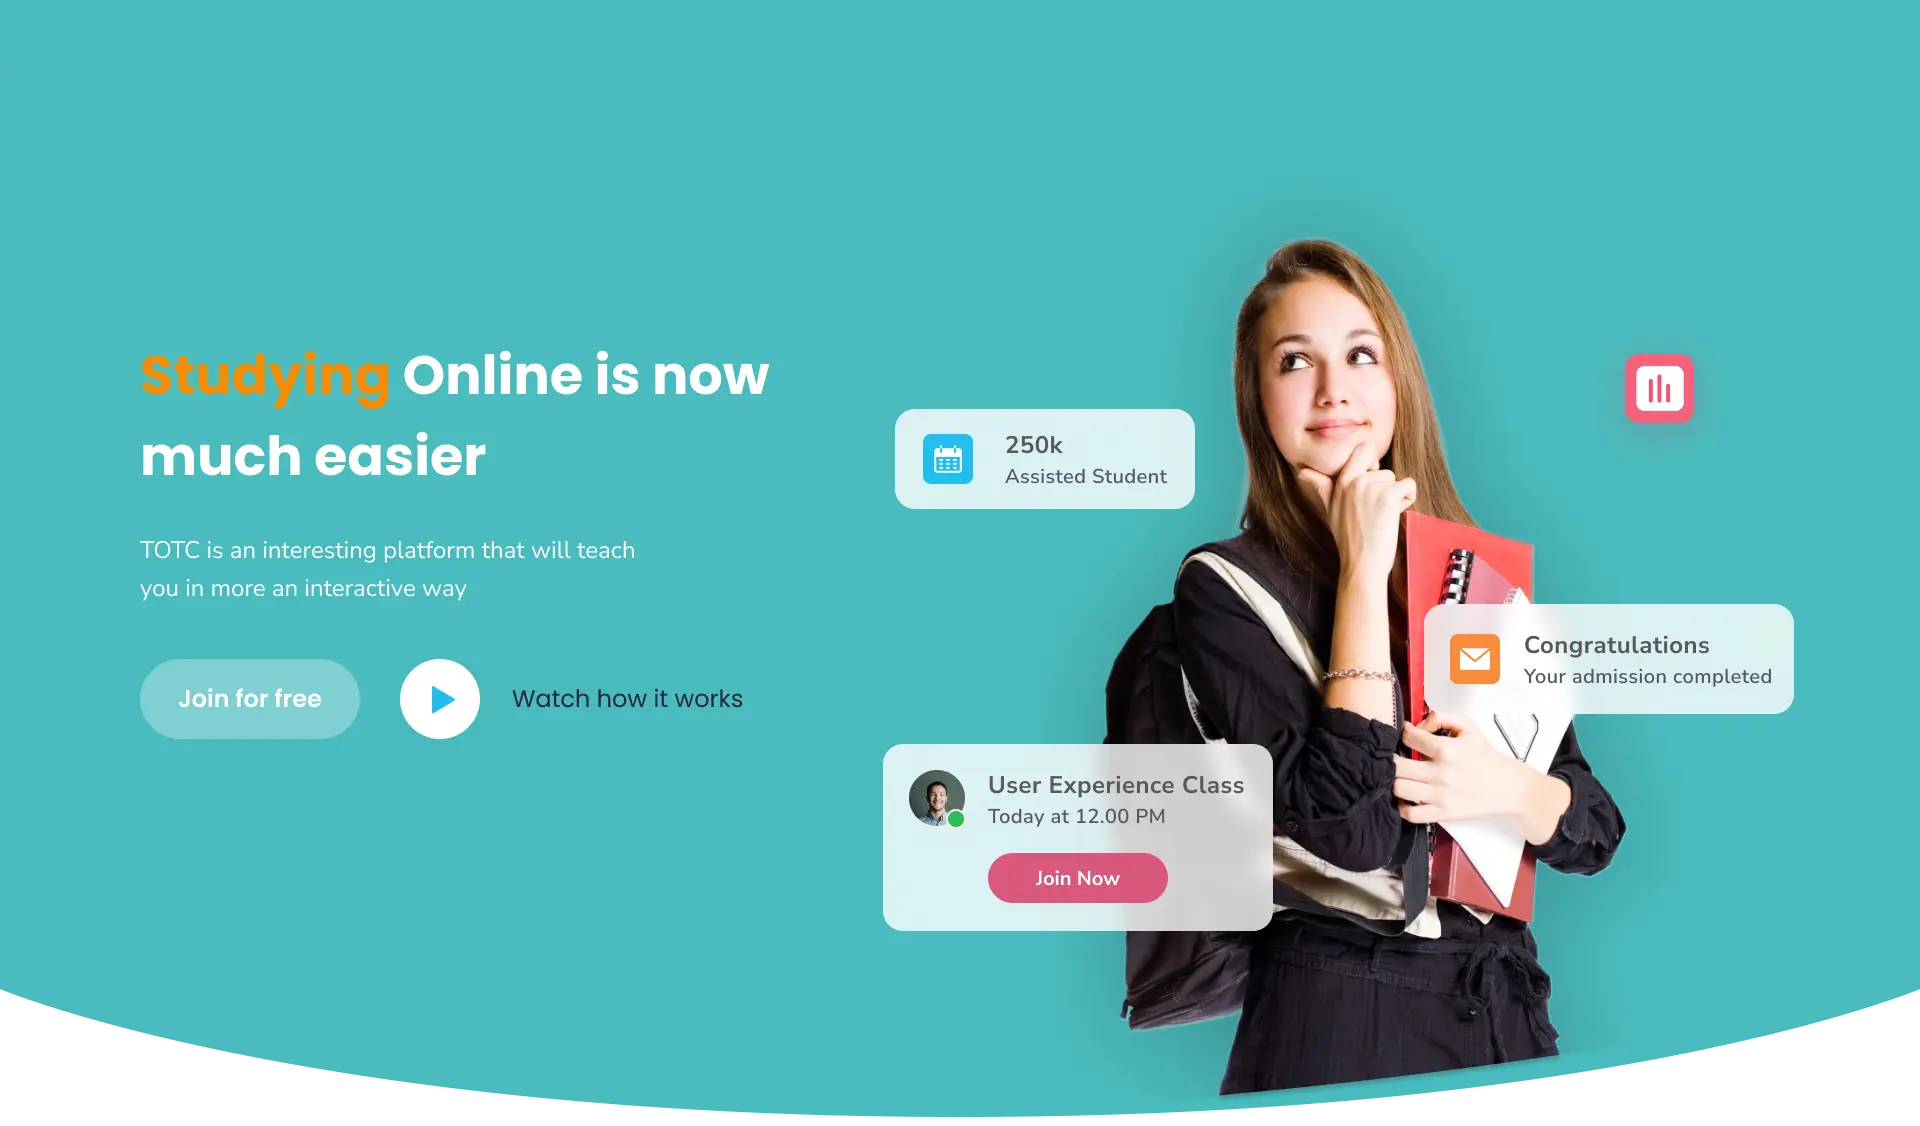
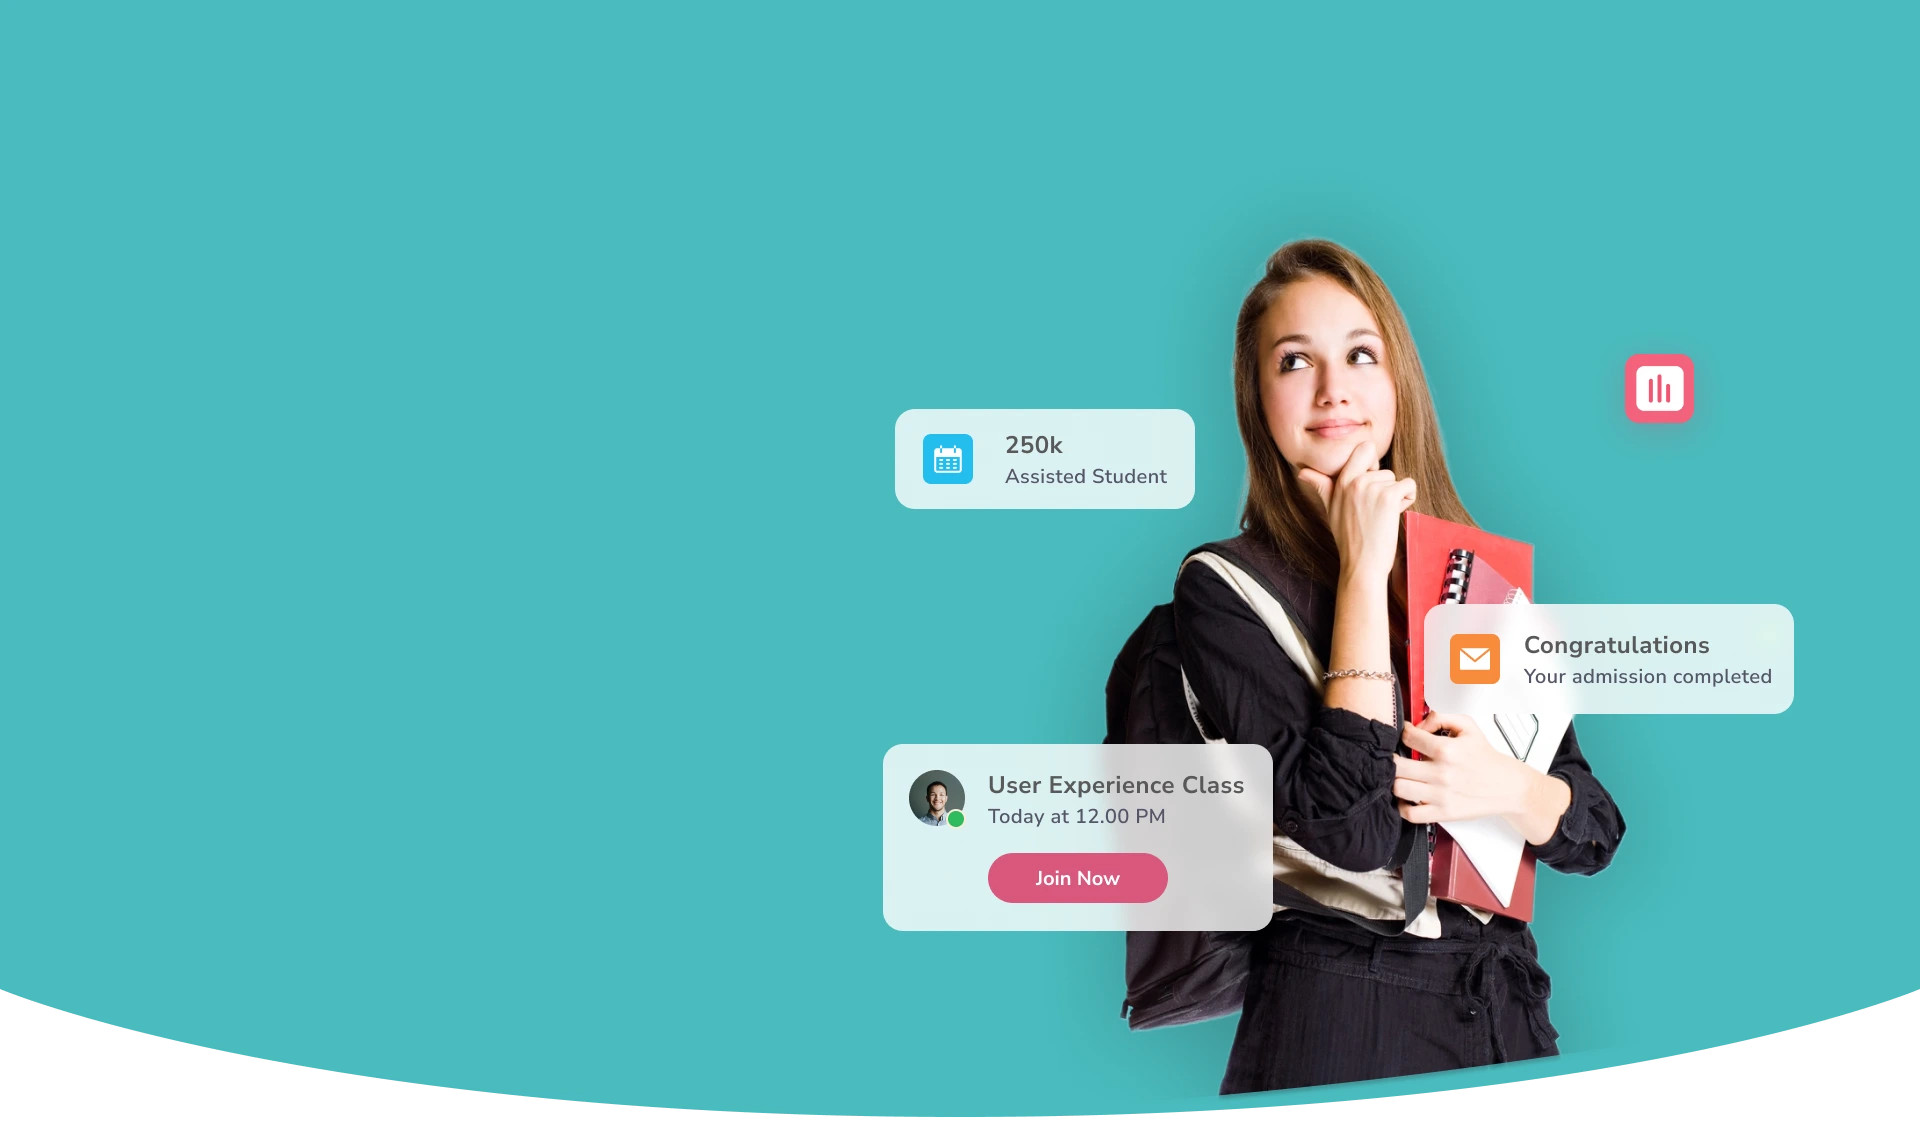
succeess section

diff --git a/index.html b/index.html
@@ -18,7 +18,7 @@
 
 </head>
 
-<body>
+<bo''dy>
 
   <!-- Navbar -->
   <nav class="navbar navbar-expand-lg position-fixed w-100">
@@ -68,14 +68,62 @@
   </nav>
 
   <main>
- 
-<section class="hero">
- <div class="vh-100"> <!-- it's not work-->
-    <img src="./img/index-landing/Header.webp" alt="hero section image" />
-    <button></button>
-</div>
 
-</section>
+    <section class="hero">
+      <div class="vh-100 ">
+        <h2><span>Studying</span>Online is now much easier</h2>
+        <p>TOTC is an interesting platform that will teach you in more an interactive way</p>
+        <a class="btn btn-link bg-light a-style">Join for free</a>
+        <a href="#"><img src="" alt="watch ancher"></a>
+        <a class="a-style" href="#">Watch how it works</a>
+      </div>
+
+    </section>
+
+
+    <section class="Success">
+      <div class="container">
+        <h2>Our Success</h2>
+        <p>Ornare id fames interdum porttitor nulla turpis etiam. Diam vitae sollicitudin at nec nam et pharetra
+          gravida.
+          Adipiscing a quis ultrices eu ornare tristique vel nisl orci. </p>
+        <div class="details">
+          <div class="row gap-5">
+            <div class="col-2">
+              <img src="./img/index-landing/15K+.webp" alt="1st of success div">
+              <h3>Students</h3>
+            </div>
+
+            <div class="col-2">
+              <img src="./img/index-landing/75 .webp" alt="2nd of success div">
+              <h3>Total Success</h3>
+            </div>
+
+            <div class="col-2">
+              <img src="./img/index-landing/35.webp" alt="3rd of success div">
+              <h3>Main questions</h3>
+            </div>
+
+            <div class="col-2">
+              <img src="./img/index-landing/26.webp" alt="4th of success div">
+              <h3>Chief experts</h3>
+            </div>
+
+            <div class="col-2">
+              <img src="./img/index-landing/16.webp" alt="5th of success div">
+              <h3>Years of experience</h3>
+            </div>
+
+
+          </div>
+        </div>
+
+
+      </div>
+
+    </section>
+
+
   </main>
 
 
@@ -90,6 +138,6 @@
     integrity="sha384-FKyoEForCGlyvwx9Hj09JcYn3nv7wiPVlz7YYwJrWVcXK/BmnVDxM+D2scQbITxI" crossorigin="anonymous">
     </script>
 
-</body>
+  </body>
 
 </html>

diff --git a/css/home.css b/css/home.css
@@ -22,3 +22,49 @@ box .btn-fix {
 .signBtn {
     background-color: var(--second-color);
 }
+.hero{
+    background-image: url(../img/index-landing/Header.webp);
+    background-size: cover;
+}
+.hero h2 {
+    font-size: 54px;
+}
+.hero p{
+    font-size: 24px;
+}
+.hero h2 span {
+    color:#F48C06;
+}
+.hero .btn .btn-link .bg-light{
+text-decoration: none;
+font-size:24px;
+background-color: #ffffff31;
+padding:22px 38px;
+border-radius: 50px;
+color:#fff;
+
+}
+.hero .a-style{
+    font-size: 24px;
+    color:#252641;
+    text-decoration: none;
+    margin-left: 20px;
+}
+
+.Success{
+    padding:120px 0;
+    
+}
+.details{
+    margin-top: 101px;
+    
+}
+.success h2{
+
+}
+.success h3{
+
+}
+.success p{
+    
+}

diff --git a/css/main.css b/css/main.css
@@ -4,3 +4,7 @@
     --mainfont: 'Poppins', sans-serif;
 
 }
+body{
+    height: 5000px;
+}
+
